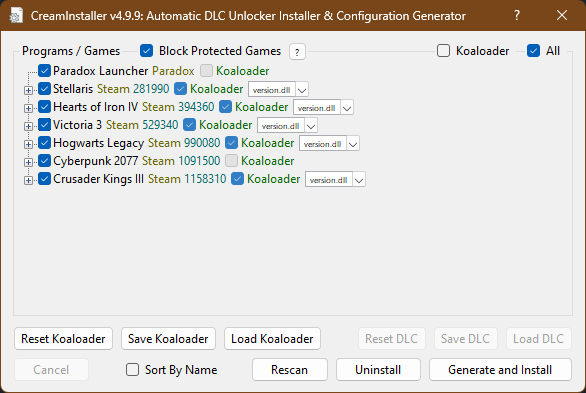
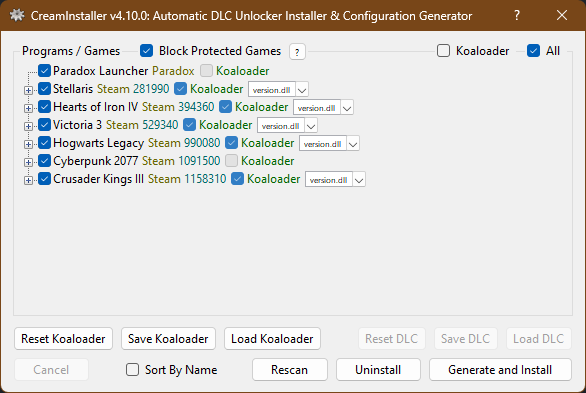
v4.10.0
- Minor refactoring
- Fixed an NRE from cancelling file writes
- Added more information to IO warnings
- Updated the help menu
- Added a custom program icon created by [Mattahan](https://www.mattahan.com)

Changed region(s): [[0.215, 0.0305, 0.7986, 0.0611], [0.0, 0.0, 0.0614, 0.0611]]

diff --git a/CreamInstaller/Properties/Resources.Designer.cs b/CreamInstaller/Properties/Resources.Designer.cs
@@ -8,16 +8,10 @@
 // </auto-generated>
 //------------------------------------------------------------------------------
 
-using System.CodeDom.Compiler;
-using System.ComponentModel;
-using System.Diagnostics;
-using System.Diagnostics.CodeAnalysis;
-using System.Drawing;
-using System.Globalization;
-using System.Resources;
-using System.Runtime.CompilerServices;
-
 namespace CreamInstaller.Properties {
+    using System;
+    
+    
     /// <summary>
     ///   A strongly-typed resource class, for looking up localized strings, etc.
     /// </summary>
@@ -25,27 +19,27 @@ namespace CreamInstaller.Properties {
     // class via a tool like ResGen or Visual Studio.
     // To add or remove a member, edit your .ResX file then rerun ResGen
     // with the /str option, or rebuild your VS project.
-    [GeneratedCode("System.Resources.Tools.StronglyTypedResourceBuilder", "17.0.0.0")]
-    [DebuggerNonUserCode()]
-    [CompilerGenerated()]
+    [global::System.CodeDom.Compiler.GeneratedCodeAttribute("System.Resources.Tools.StronglyTypedResourceBuilder", "17.0.0.0")]
+    [global::System.Diagnostics.DebuggerNonUserCodeAttribute()]
+    [global::System.Runtime.CompilerServices.CompilerGeneratedAttribute()]
     internal class Resources {
         
-        private static ResourceManager resourceMan;
+        private static global::System.Resources.ResourceManager resourceMan;
         
-        private static CultureInfo resourceCulture;
+        private static global::System.Globalization.CultureInfo resourceCulture;
         
-        [SuppressMessage("Microsoft.Performance", "CA1811:AvoidUncalledPrivateCode")]
+        [global::System.Diagnostics.CodeAnalysis.SuppressMessageAttribute("Microsoft.Performance", "CA1811:AvoidUncalledPrivateCode")]
         internal Resources() {
         }
         
         /// <summary>
         ///   Returns the cached ResourceManager instance used by this class.
         /// </summary>
-        [EditorBrowsable(EditorBrowsableState.Advanced)]
-        internal static ResourceManager ResourceManager {
+        [global::System.ComponentModel.EditorBrowsableAttribute(global::System.ComponentModel.EditorBrowsableState.Advanced)]
+        internal static global::System.Resources.ResourceManager ResourceManager {
             get {
-                if (ReferenceEquals(resourceMan, null)) {
-                    ResourceManager temp = new ResourceManager("CreamInstaller.Properties.Resources", typeof(Resources).Assembly);
+                if (object.ReferenceEquals(resourceMan, null)) {
+                    global::System.Resources.ResourceManager temp = new global::System.Resources.ResourceManager("CreamInstaller.Properties.Resources", typeof(Resources).Assembly);
                     resourceMan = temp;
                 }
                 return resourceMan;
@@ -56,8 +50,8 @@ namespace CreamInstaller.Properties {
         ///   Overrides the current thread's CurrentUICulture property for all
         ///   resource lookups using this strongly typed resource class.
         /// </summary>
-        [EditorBrowsable(EditorBrowsableState.Advanced)]
-        internal static CultureInfo Culture {
+        [global::System.ComponentModel.EditorBrowsableAttribute(global::System.ComponentModel.EditorBrowsableState.Advanced)]
+        internal static global::System.Globalization.CultureInfo Culture {
             get {
                 return resourceCulture;
             }
@@ -69,10 +63,10 @@ namespace CreamInstaller.Properties {
         /// <summary>
         ///   Looks up a localized resource of type System.Drawing.Icon similar to (Icon).
         /// </summary>
-        internal static Icon Icon {
+        internal static System.Drawing.Icon Icon {
             get {
                 object obj = ResourceManager.GetObject("Icon", resourceCulture);
-                return ((Icon)(obj));
+                return ((System.Drawing.Icon)(obj));
             }
         }
     }

diff --git a/CreamInstaller/Components/CustomForm.cs b/CreamInstaller/Components/CustomForm.cs
@@ -71,9 +71,9 @@ internal class CustomForm : Form
           + "a good majority of games, you must find, download and install those to the game yourself. This process includes manually installing new\n"
           + "DLCs and manually updating the previously manually installed DLCs after game updates.\n\n"
           + $"For reliable and quick assistance, all bugs, crashes and other issues should be referred to the [GitHub Issues]({repository}/issues) page!\n\n"
-          + $"HOWEVER: Please read the [template issue]({repository}/issues/new/choose) corresponding to your problem should one exist! Also, note that the [GitHub Issues]({repository}/issues) page is not\n"
-          + "your personal assistance hotline, rather it is for genuine bugs/crashes/issues with the program itself. If you post an issue which has already\n"
-          + "been explained within the template issues and/or within this text, I will just close it.\n\n"
+          + $"HOWEVER: Please read the [FAQ entry]({repository}/issues/new/choose) and/or [template issue]({repository}/issues/new/choose) corresponding to your problem should one exist! Also, note that the [GitHub Issues]({repository}/issues)\n"
+          + "page is not your personal assistance hotline, rather it is for genuine bugs/crashes/issues with the program itself. If you post an issue which\n"
+          + "has already been explained within the FAQ, template issues, and/or within this text in general, I will just close it and you will be ignored.\n\n"
           + "SteamCMD installation and appinfo cache can be found at [C:\\ProgramData\\CreamInstaller]().\n"
           + $"The program automatically and very quickly updates from [GitHub]({repository}) by choice of the user through a dialog on startup.\n"
           + $"The program source and other information can be found on [GitHub]({repository}).");

diff --git a/CreamInstaller/Resources/SmokeAPI.cs b/CreamInstaller/Resources/SmokeAPI.cs
@@ -53,7 +53,7 @@ internal static class SmokeAPI
         {
             /*if (installForm is not null)
                 installForm.UpdateUser("Generating SmokeAPI configuration for " + selection.Name + $" in directory \"{directory}\" . . . ", LogTextBox.Operation);*/
-            config.CreateFile(true, installForm).Close();
+            config.CreateFile(true, installForm)?.Close();
             StreamWriter writer = new(config, true, Encoding.UTF8);
             WriteConfig(writer, selection.Id, new(extraApps.ToDictionary(extraApp => extraApp.Key, extraApp => extraApp.Value), PlatformIdComparer.String),
                 new(overrideDlc.ToDictionary(dlc => dlc.Id, dlc => dlc), PlatformIdComparer.String),

diff --git a/CreamInstaller/Resources/ScreamAPI.cs b/CreamInstaller/Resources/ScreamAPI.cs
@@ -51,7 +51,7 @@ internal static class ScreamAPI
         {
             /*if (installForm is not null)
                 installForm.UpdateUser("Generating ScreamAPI configuration for " + selection.Name + $" in directory \"{directory}\" . . . ", LogTextBox.Operation);*/
-            config.CreateFile(true, installForm).Close();
+            config.CreateFile(true, installForm)?.Close();
             StreamWriter writer = new(config, true, Encoding.UTF8);
             WriteConfig(writer, new(overrideCatalogItems.ToDictionary(dlc => dlc.Id, dlc => dlc), PlatformIdComparer.String),
                 new(injectedEntitlements.ToDictionary(dlc => dlc.Id, dlc => dlc), PlatformIdComparer.String), installForm);

diff --git a/CreamInstaller/Utility/SafeIO.cs b/CreamInstaller/Utility/SafeIO.cs
@@ -243,10 +243,12 @@ internal static class SafeIO
             case 5: // ERROR_ACCESS_DENIED
             case 32: // ERROR_SHARING_VIOLATION
             case 33: // ERROR_LOCK_VIOLATION
+                description += e.Message + "\n\n";
                 description += "Please close the program/game and press retry to continue . . . ";
                 break;
             case 225: // ERROR_VIRUS_INFECTED
             case 226: // ERROR_VIRUS_DELETED
+                description += e.Message + "\n\n";
                 description += "Please resolve your anti-virus and press retry to continue . . . ";
                 break;
             default:

diff --git a/CreamInstaller/Resources/UplayR1.cs b/CreamInstaller/Resources/UplayR1.cs
@@ -32,7 +32,7 @@ internal static class UplayR1
         {
             /*if (installForm is not null)
                 installForm.UpdateUser("Generating Uplay R1 Unlocker configuration for " + selection.Name + $" in directory \"{directory}\" . . . ", LogTextBox.Operation);*/
-            config.CreateFile(true, installForm).Close();
+            config.CreateFile(true, installForm)?.Close();
             StreamWriter writer = new(config, true, Encoding.UTF8);
             WriteConfig(writer, new(blacklistDlc.ToDictionary(dlc => dlc.Id, dlc => dlc), PlatformIdComparer.String), installForm);
             writer.Flush();

diff --git a/CreamInstaller/Resources/UplayR2.cs b/CreamInstaller/Resources/UplayR2.cs
@@ -34,7 +34,7 @@ internal static class UplayR2
         {
             /*if (installForm is not null)
                 installForm.UpdateUser("Generating Uplay R2 Unlocker configuration for " + selection.Name + $" in directory \"{directory}\" . . . ", LogTextBox.Operation);*/
-            config.CreateFile(true, installForm).Close();
+            config.CreateFile(true, installForm)?.Close();
             StreamWriter writer = new(config, true, Encoding.UTF8);
             WriteConfig(writer, new(blacklistDlc.ToDictionary(dlc => dlc.Id, dlc => dlc), PlatformIdComparer.String), installForm);
             writer.Flush();

diff --git a/CreamInstaller/Resources/Koaloader.cs b/CreamInstaller/Resources/Koaloader.cs
@@ -79,7 +79,7 @@ internal static class Koaloader
         {
             /*if (installForm is not null)
                 installForm.UpdateUser("Generating Koaloader configuration for " + selection.Name + $" in directory \"{directory}\" . . . ", LogTextBox.Operation);*/
-            config.CreateFile(true, installForm).Close();
+            config.CreateFile(true, installForm)?.Close();
             StreamWriter writer = new(config, true, Encoding.UTF8);
             WriteConfig(writer, targets, modules, installForm);
             writer.Flush();

diff --git a/CreamInstaller/Platforms/Steam/SteamCMD.cs b/CreamInstaller/Platforms/Steam/SteamCMD.cs
@@ -2,18 +2,18 @@
 using System.Collections.Concurrent;
 using System.Collections.Generic;
 using System.Diagnostics;
-using System.Drawing;
 using System.IO;
 using System.Linq;
 using System.Net.Http;
 using System.Text;
 using System.Threading;
 using System.Threading.Tasks;
-using System.Windows.Forms;
-using CreamInstaller.Forms;
 using CreamInstaller.Resources;
 using CreamInstaller.Utility;
 using Gameloop.Vdf.Linq;
+#if DEBUG
+using CreamInstaller.Forms;
+#endif
 
 namespace CreamInstaller.Platforms.Steam;
 
